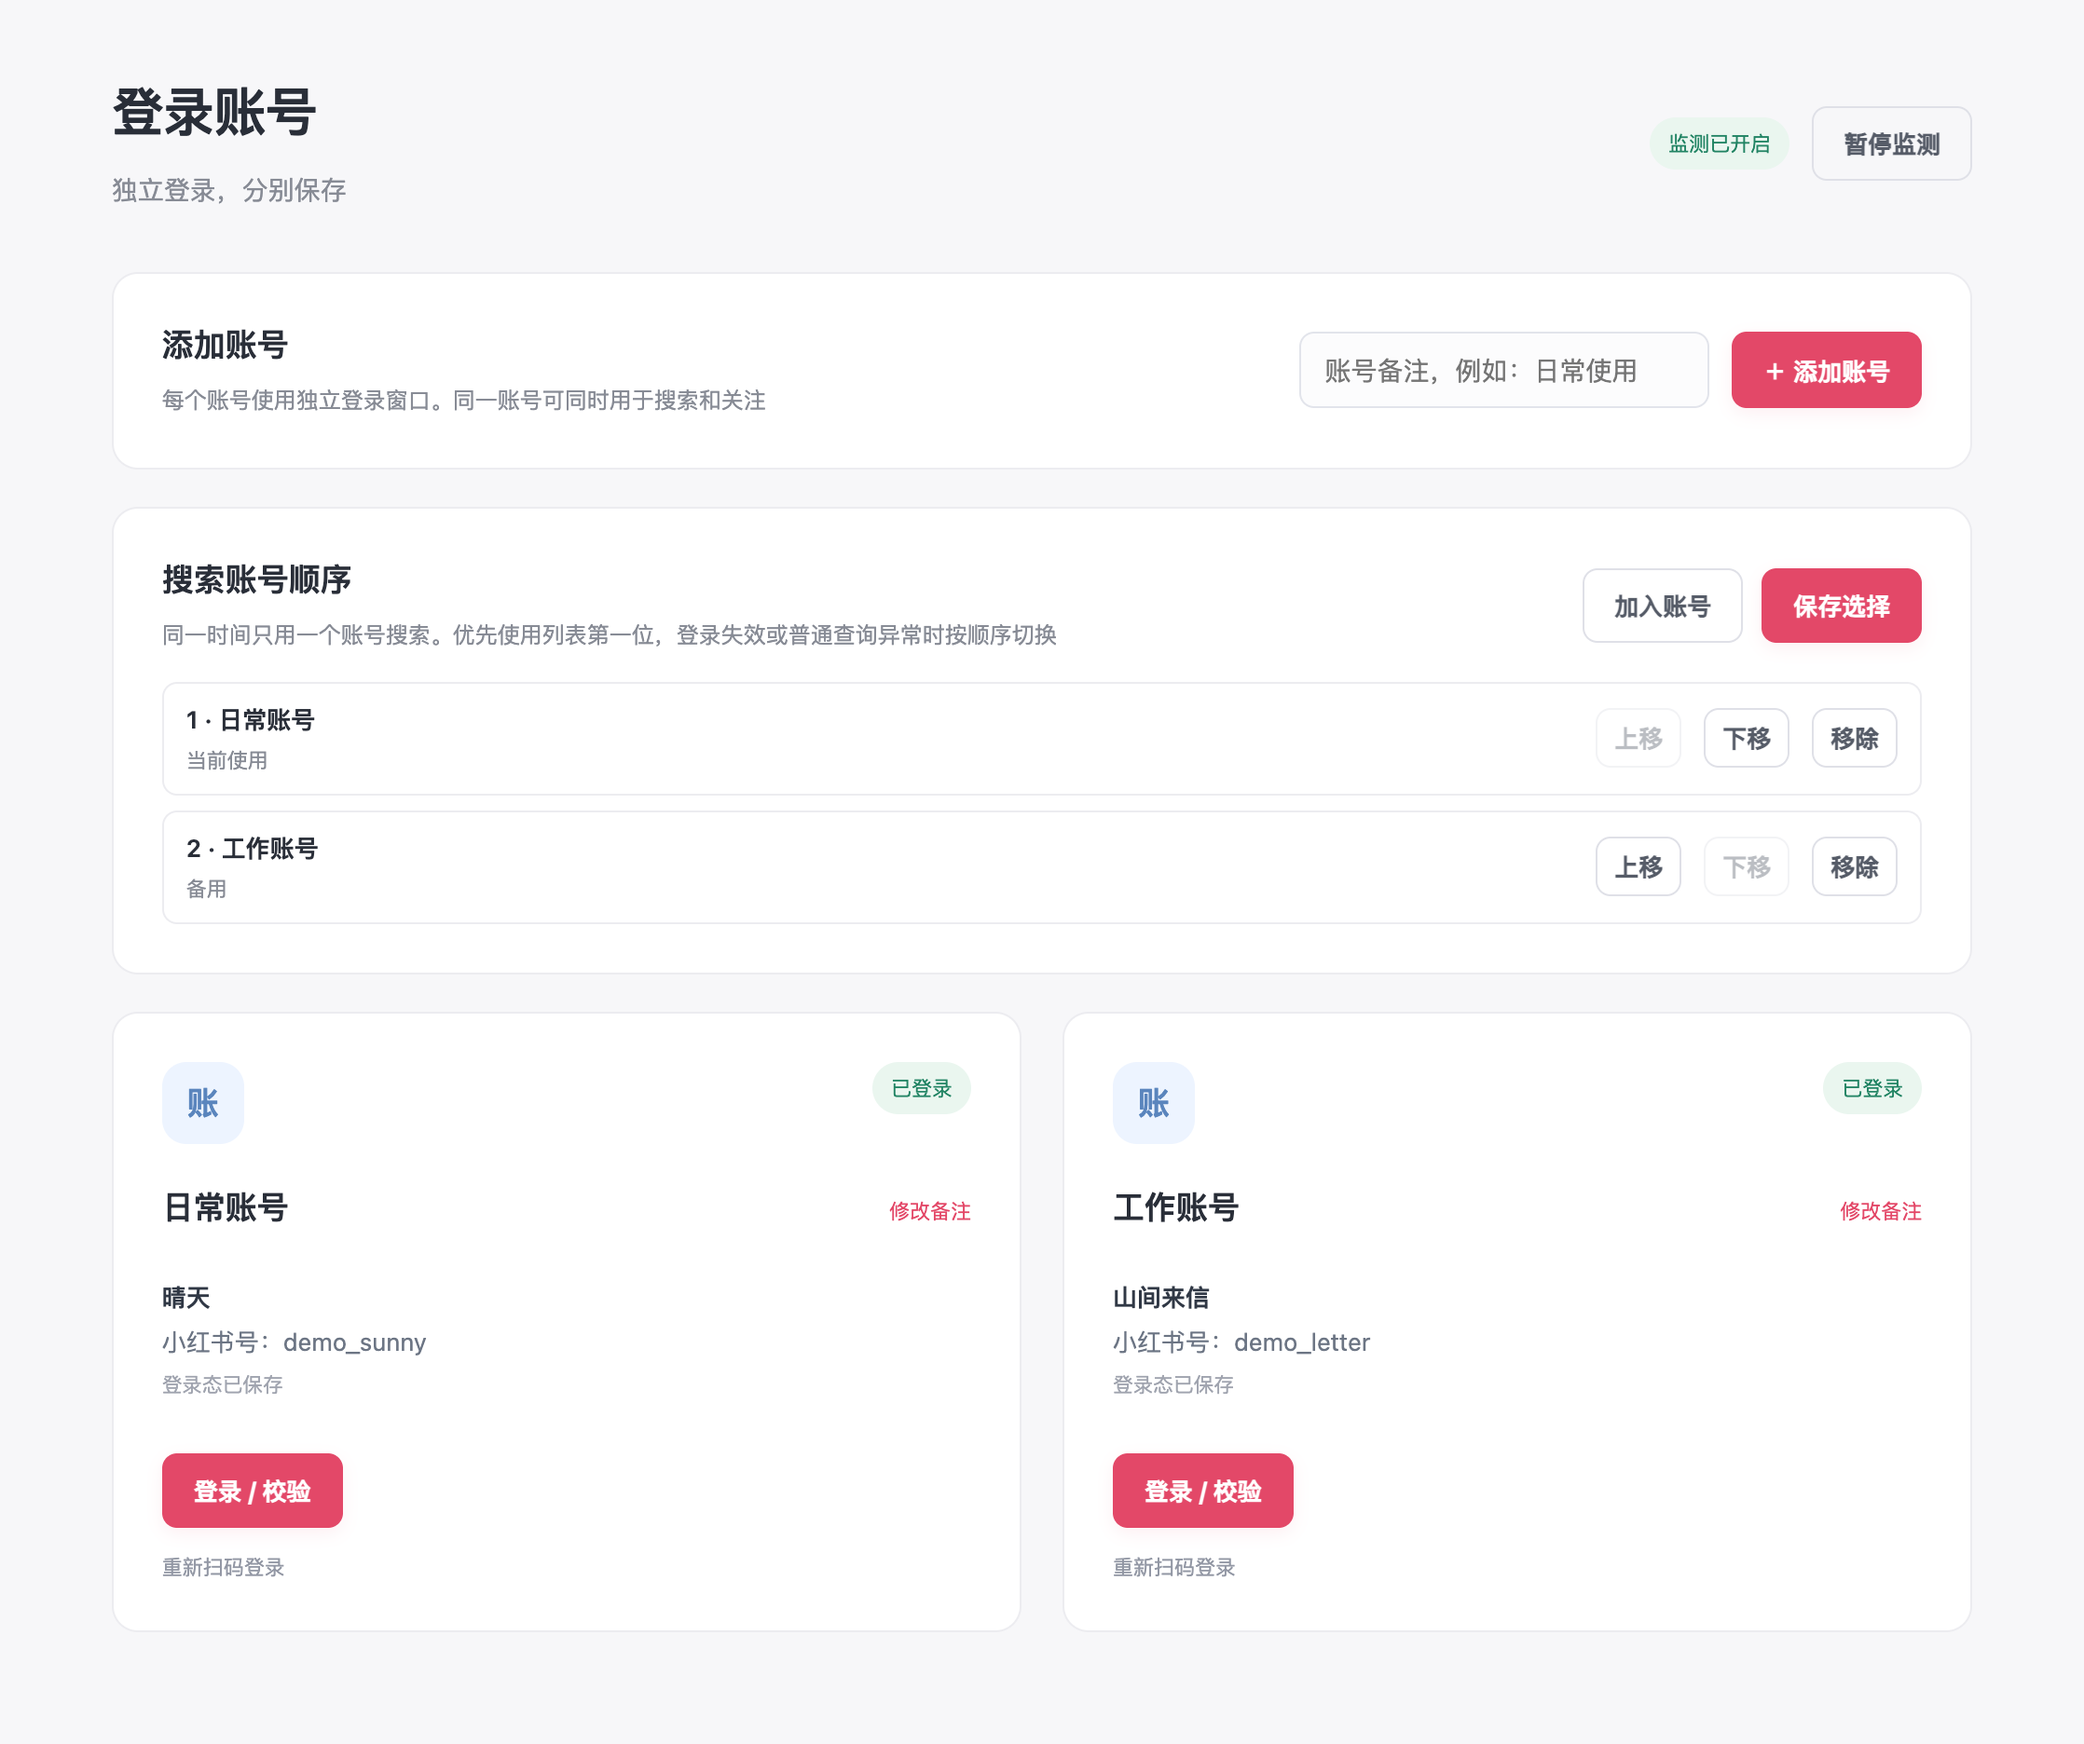
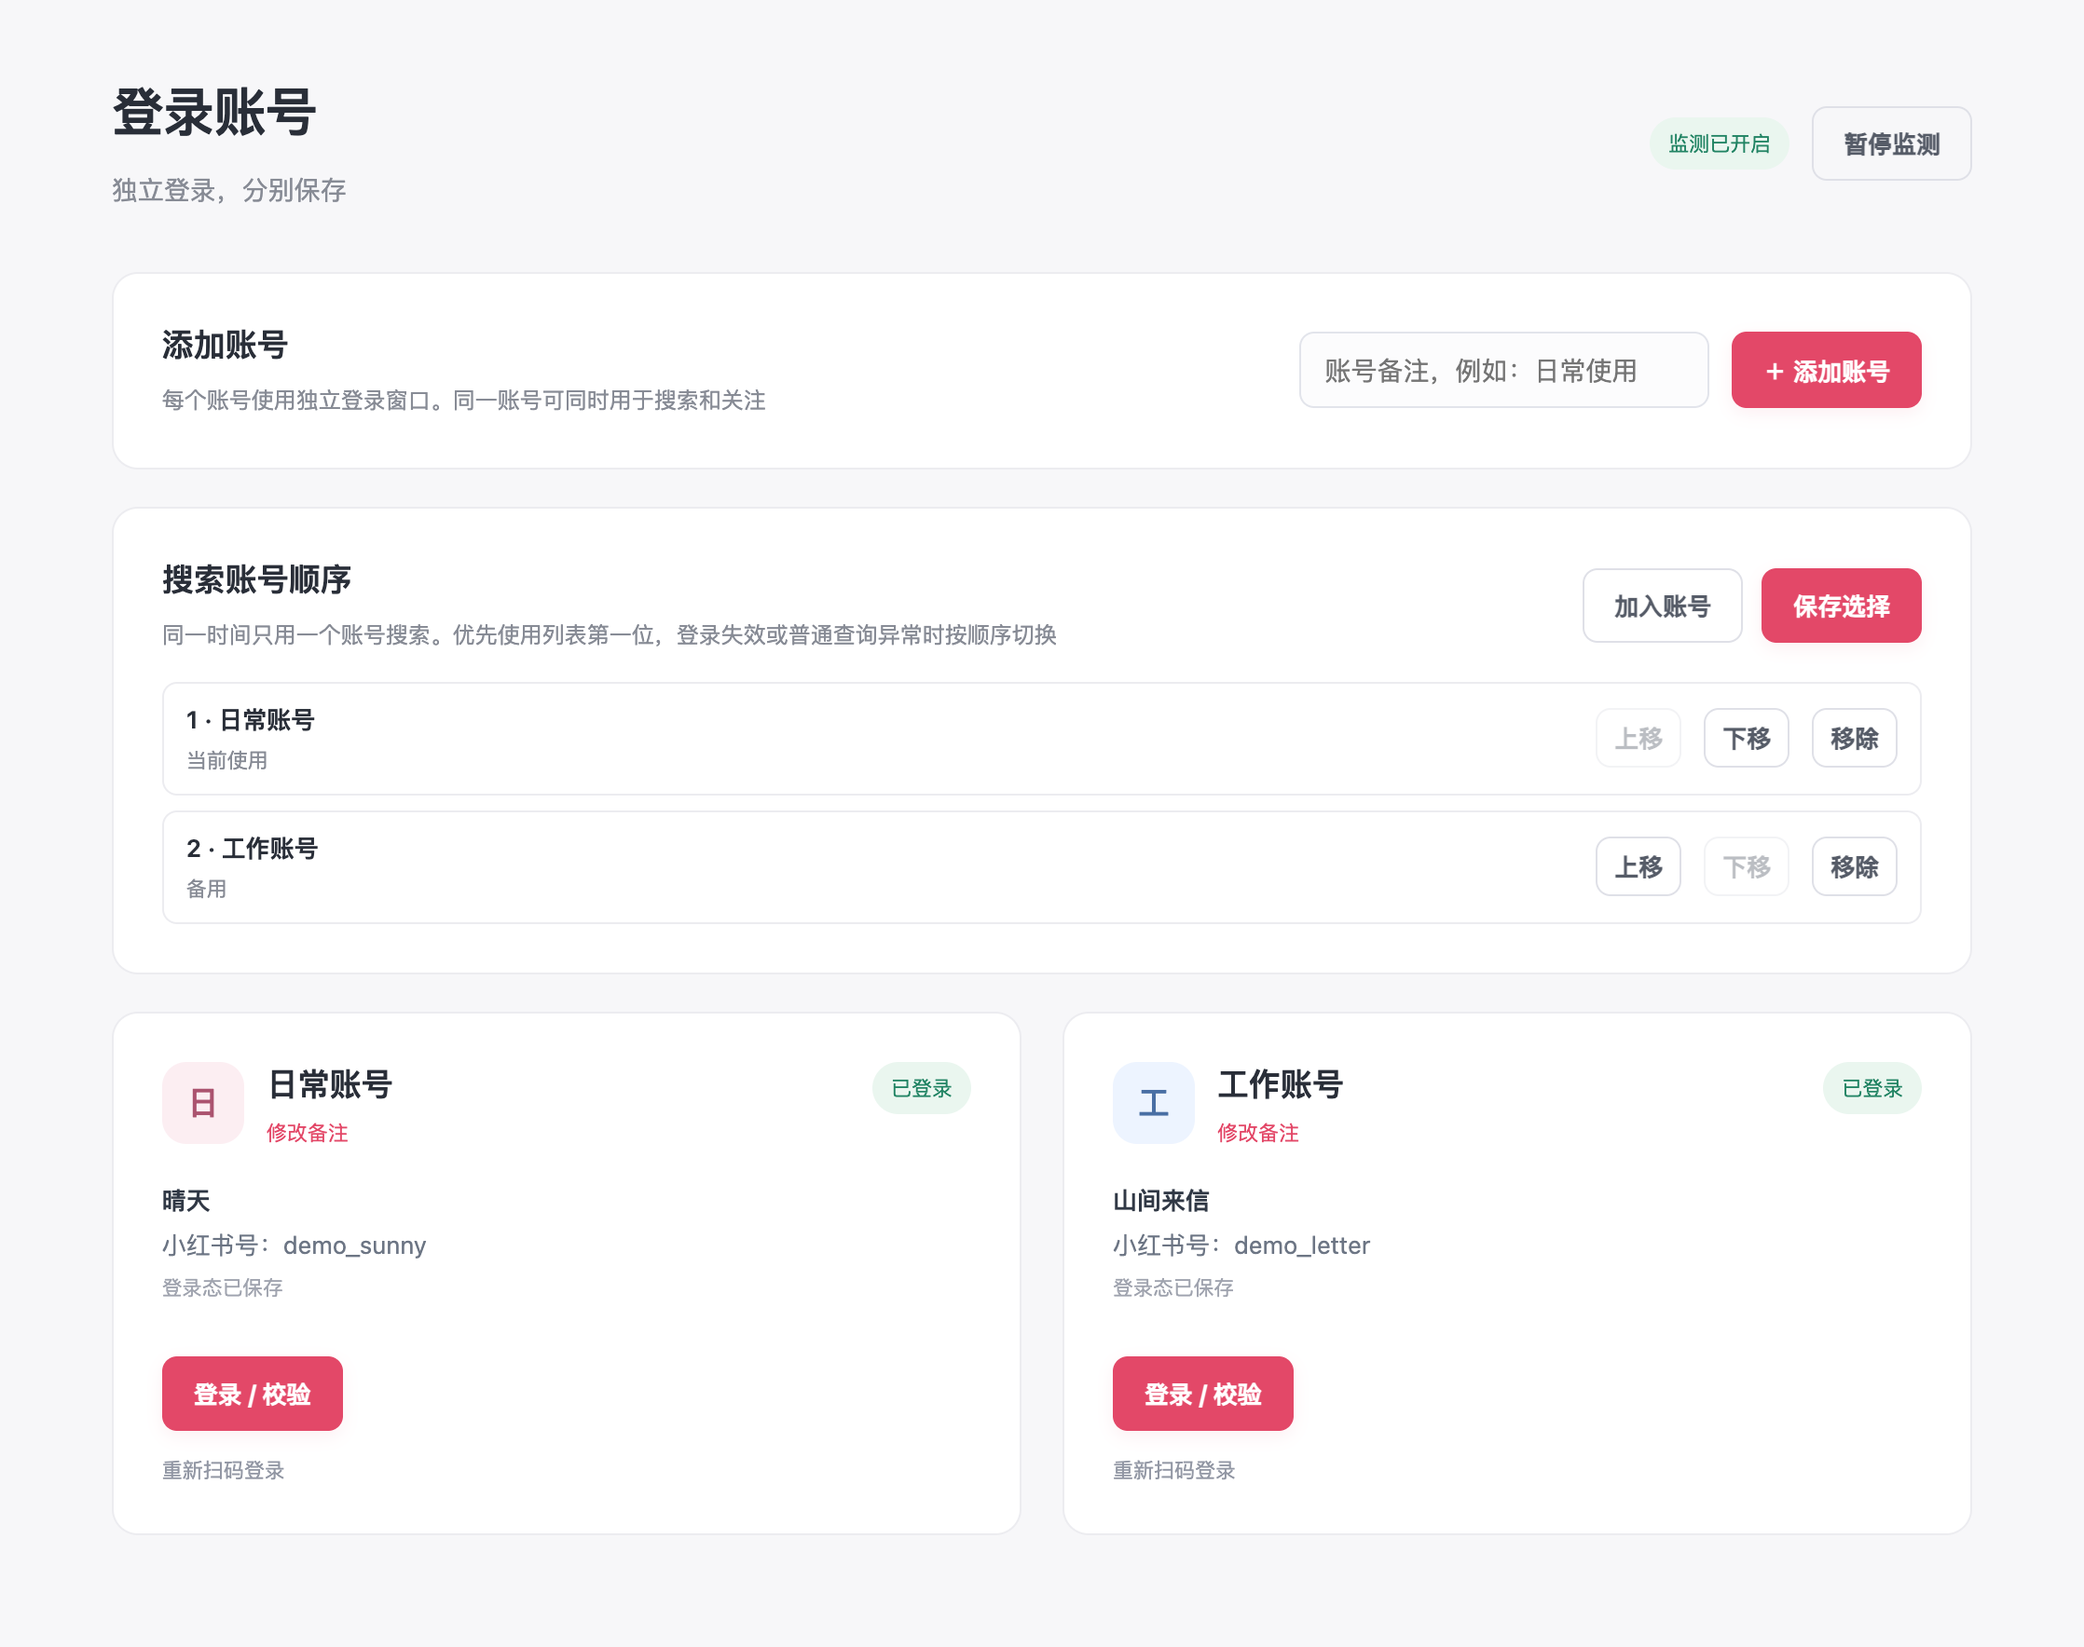
Use account initials and stable colors in compact card headers

diff --git a/web/css/style.css b/web/css/style.css
@@ -109,8 +109,12 @@ p { color: var(--muted); line-height: 1.7; margin: 0; }
 .intro { margin-bottom: 26px; }
 .intro p { font-size: 13px; }
 .account-grid { display: grid; grid-template-columns: 1fr 1fr; gap: 22px; }
-.account-icon { display: grid; place-items: center; background: #edf4ff; color: #5a85bd; width: 44px; height: 44px; border-radius: 13px; margin-bottom: 22px; font-size: 17px; font-weight: 600; }
-.account-icon.big { background: #fff0f4; color: #c3627c; }
+.account-icon { display: grid; place-items: center; flex: 0 0 44px; background: #edf4ff; color: #496fa4; width: 44px; height: 44px; border-radius: 13px; font-size: 17px; font-weight: 600; }
+.account-icon[data-tone="1"] { background: #f2edfb; color: #7957a6; }
+.account-icon[data-tone="2"] { background: #eaf5f2; color: #397e6c; }
+.account-icon[data-tone="3"] { background: #fff2e5; color: #99652d; }
+.account-icon[data-tone="4"] { background: #fceef2; color: #ab536f; }
+.account-icon[data-tone="5"] { background: #eaf4f8; color: #3b778d; }
 .account-info { min-height: 76px; margin-bottom: 20px; color: #6c7584; font-size: 13px; line-height: 1.9; }
 .account-info strong { color: #303845; }
 .account-info small { display: block; color: #a0a4af; }
@@ -233,8 +237,8 @@ p { color: var(--muted); line-height: 1.7; margin: 0; }
 .choice-label { min-width: 0; overflow-wrap: anywhere; }
 .choice-label strong { display: block; font-weight: 600; font-size: 13px; }
 .choice-label small { display: block; margin-top: 5px; color: var(--muted); font-size: 11px; }
-.account-label-heading { display: flex; align-items: baseline; justify-content: space-between; gap: 12px; }
-.account-label-heading h2 { min-width: 0; overflow-wrap: anywhere; }
+.account-label-heading { display: flex; flex: 1; min-width: 0; flex-direction: column; align-items: flex-start; gap: 6px; }
+.account-label-heading h2 { margin: 0; min-width: 0; max-width: 100%; overflow-wrap: anywhere; }
 .account-label-heading .rename-account { padding: 0; flex-shrink: 0; color: var(--pink); }
 .editor-dialog { padding: 0; width: min(480px, calc(100% - 32px)); max-height: calc(100dvh - 40px); overflow: auto; color: var(--ink); background: #fff; border: 1px solid var(--line); border-radius: 16px; box-shadow: 0 24px 80px #23263230; }
 .editor-dialog::backdrop { background: #252c3b66; }

diff --git a/web/index.html b/web/index.html
@@ -51,7 +51,7 @@
     <div class="follow-option"><span>自动关注账号</span><button class="follow-picker" type="button" aria-haspopup="dialog"><span class="selected-follow-count">仅通知</span><span class="picker-action">选择 ›</span></button><div class="follow-account-options hidden"></div></div>
   </article>
 </template>
-<template id="account-template"><article class="panel account-card"><div class="account-card-heading"><span class="account-icon">账</span><span class="account-role pill"></span></div><div class="account-label-heading"><h2 class="account-label-text"></h2><button class="link-button rename-account" type="button" aria-haspopup="dialog">修改备注</button></div><div class="account-info"></div><div class="row"><button class="button primary login">登录 / 校验</button><button class="button quiet account-resume hidden">恢复关注任务</button></div><button class="link-button fresh">重新扫码登录</button></article></template>
+<template id="account-template"><article class="panel account-card"><div class="account-card-heading"><span class="account-icon" aria-hidden="true"></span><div class="account-label-heading"><h2 class="account-label-text"></h2><button class="link-button rename-account" type="button" aria-haspopup="dialog">修改备注</button></div><span class="account-role pill"></span></div><div class="account-info"></div><div class="row"><button class="button primary login">登录 / 校验</button><button class="button quiet account-resume hidden">恢复关注任务</button></div><button class="link-button fresh">重新扫码登录</button></article></template>
 <dialog id="confirmation-dialog" class="editor-dialog" aria-labelledby="confirmation-title" aria-describedby="confirmation-description confirmation-hint">
   <div class="dialog-heading"><div><h2 id="confirmation-title"></h2><p id="confirmation-description"></p></div><button type="button" id="close-confirmation" class="icon-button" aria-label="关闭确认弹窗">×</button></div>
   <div class="dialog-footer"><p id="confirmation-hint" class="hint"></p><div class="row"><button type="button" id="cancel-confirmation" class="button" autofocus>取消</button><button type="button" id="confirm-action" class="button primary"></button></div></div>

diff --git a/web/js/accounts.js b/web/js/accounts.js
@@ -1,6 +1,15 @@
 import {layoutChange, reveal, setVisible} from './motion.js';
 const $ = selector => document.querySelector(selector);
 export const accountName = account => account?.name || account?.label || '未登录账号';
+const initials = new Intl.Segmenter('zh-CN', {granularity: 'grapheme'});
+
+function renderAccountIcon(icon, account) {
+  icon.textContent = [...initials.segment((account.label || '').trim())][0]?.segment || '?';
+  // Use the stable identity so renaming, sorting and reloading keep the same color.
+  let hash = 2166136261;
+  for (const character of account.id) hash = Math.imul(hash ^ character.codePointAt(0), 16777619) >>> 0;
+  icon.dataset.tone = hash % 6;
+}
 
 function accountChoiceLabel(account) {
   const text = document.createElement('span'); text.className = 'choice-label';
@@ -184,6 +193,7 @@ export function renderAccounts(accounts, busy, {login, resume, rename}) {
         list.append(card);
       }
       card.querySelector('.account-label-text').textContent = account.label;
+      renderAccountIcon(card.querySelector('.account-icon'), account);
       card.querySelector('.rename-account').onclick = () => rename(account);
       card.querySelector('.rename-account').setAttribute('aria-label', '修改 ' + account.label + ' 的备注');
       const role = card.querySelector('.account-role');
